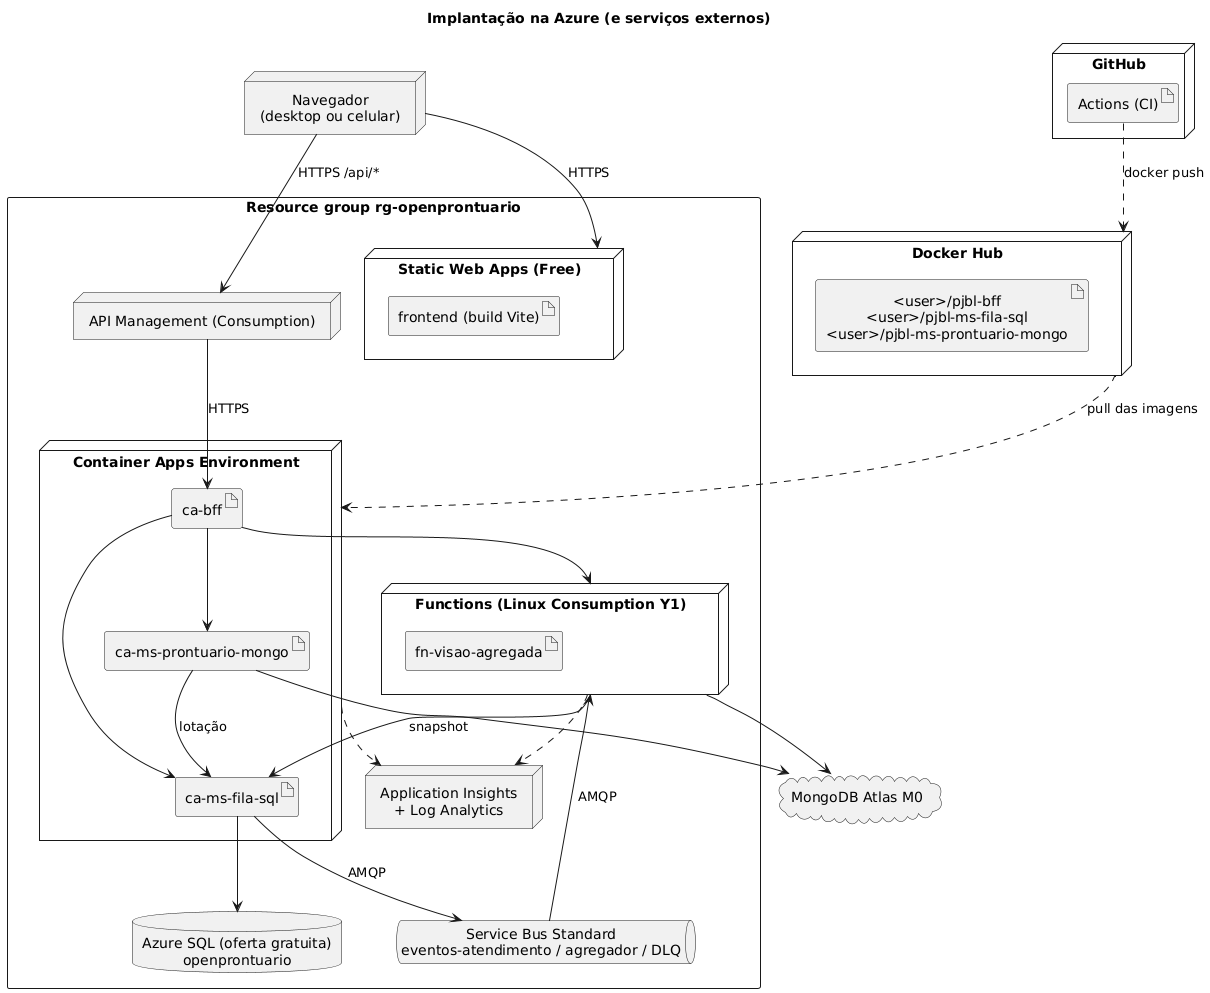
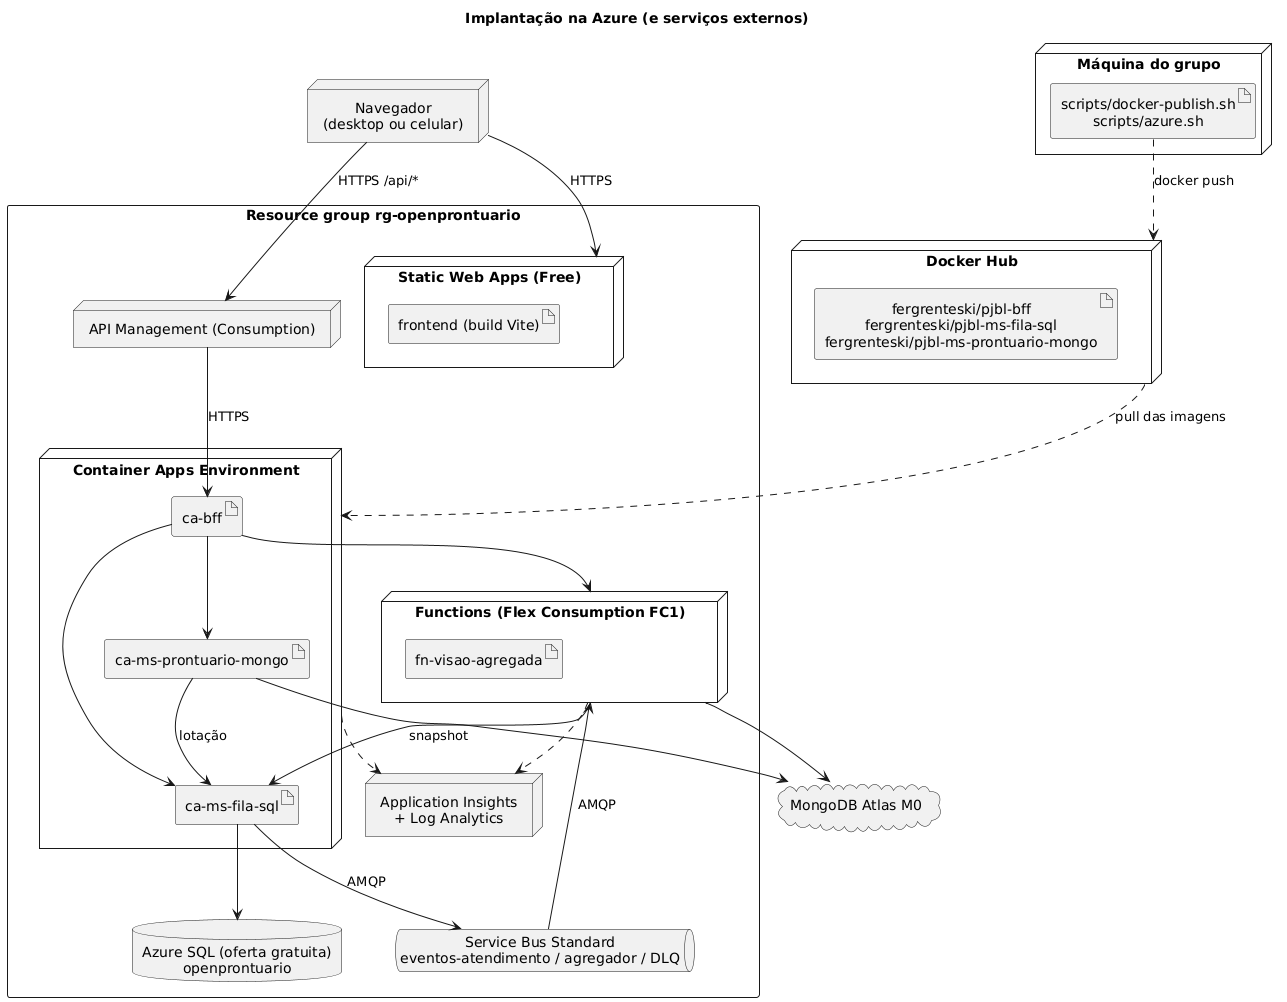
fix(infra): deploy real na Azure for Students
- Function em Flex Consumption (FC1): o Y1 tem cota zero na assinatura
  de estudante e está sendo aposentado; deploy por zip.
- Política do APIM depende das operações (PreconditionFailed por
  escrita concorrente).
- Timeout do BFF em nuvem de 10 s para 45 s, cobrindo a partida a frio.
- azure.sh: lê o .env.azure sem source (a URI do Atlas tem &), registra
  os provedores, publica o frontend num container node:20 (o binário
  do SWA é x86_64) e ganhou o comando acordar.
- arc42 com os links reais da entrega; VERIFICACAO com o E2E em nuvem.

diff --git a/docs/arc42_open_prontuario_pjbl.md b/docs/arc42_open_prontuario_pjbl.md
@@ -24,26 +24,29 @@ Todos os integrantes participam da documentação, da revisão de código e do v
 
 # Links da entrega {.unnumbered}
 
-> Preencha após o deploy (ver `docs/DEPLOY.md`). Os links de nuvem são saídas do `az deployment group create` (`outputs`).
+> Links de nuvem gerados por `./scripts/azure.sh subir` (consulte com `./scripts/azure.sh status`). Tudo escala a zero: o primeiro acesso depois de um tempo parado leva até ~1 min.
 
 | Artefato | Link |
 |---|---|
-| GitHub — Microfrontend | `<PREENCHER>` (https://github.com/fergrenteski/open-prontuario-frontend) |
-| GitHub — BFF | `<PREENCHER>` (https://github.com/fergrenteski/open-prontuario-bff) |
-| GitHub — Microserviço MongoDB | `<PREENCHER>` (https://github.com/fergrenteski/open-prontuario-ms-prontuario-mongo) |
-| GitHub — Microserviço Azure SQL | `<PREENCHER>` (https://github.com/fergrenteski/open-prontuario-ms-fila-sql) |
-| GitHub — Azure Function | `<PREENCHER>` (https://github.com/fergrenteski/open-prontuario-fn-visao-agregada) |
-| GitHub — Plataforma (docs, compose, Bicep) | `<PREENCHER>` (https://github.com/fergrenteski/open-prontuario-platform) |
-| Docker Hub — BFF | `<PREENCHER>` (https://hub.docker.com/r/<usuario>/pjbl-bff) |
-| Docker Hub — MS Fila | `<PREENCHER>` (https://hub.docker.com/r/<usuario>/pjbl-ms-fila-sql) |
-| Docker Hub — MS Prontuário | `<PREENCHER>` (https://hub.docker.com/r/<usuario>/pjbl-ms-prontuario-mongo) |
-| Swagger — BFF | `<PREENCHER>` (output `bffSwaggerUrl`) |
-| Swagger — MS Fila | `<PREENCHER>` (output `msFilaSwaggerUrl`) |
-| Swagger — MS Prontuário | `<PREENCHER>` (output `msProntuarioSwaggerUrl`) |
-| OpenAPI — Function (HTTP Trigger) | `<PREENCHER>` (`docs/contracts/fn-visao-agregada.openapi.yaml` no GitHub) |
-| Eventos (AsyncAPI) | `<PREENCHER>` (`docs/contracts/asyncapi.yaml` no GitHub / AsyncAPI Studio) |
-| Frontend | `<PREENCHER>` (output `frontendUrl`) |
-| API Gateway | `<PREENCHER>` (output `apiGatewayUrl`) |
+| GitHub — Microfrontend | https://github.com/fergrenteski/open-prontuario-frontend |
+| GitHub — BFF | https://github.com/fergrenteski/open-prontuario-bff |
+| GitHub — Microserviço MongoDB | https://github.com/fergrenteski/open-prontuario-ms-prontuario-mongo |
+| GitHub — Microserviço Azure SQL | https://github.com/fergrenteski/open-prontuario-ms-fila-sql |
+| GitHub — Azure Function | https://github.com/fergrenteski/open-prontuario-fn-visao-agregada |
+| GitHub — Plataforma (docs, compose, Bicep) | https://github.com/fergrenteski/open-prontuario-platform |
+| Docker Hub — BFF | https://hub.docker.com/r/fergrenteski/pjbl-bff |
+| Docker Hub — MS Fila | https://hub.docker.com/r/fergrenteski/pjbl-ms-fila-sql |
+| Docker Hub — MS Prontuário | https://hub.docker.com/r/fergrenteski/pjbl-ms-prontuario-mongo |
+| Docker Hub — Function | https://hub.docker.com/r/fergrenteski/pjbl-fn-visao-agregada |
+| Docker Hub — Frontend | https://hub.docker.com/r/fergrenteski/pjbl-frontend |
+| Swagger — BFF | https://ca-bff.gentletree-a28fd1cb.brazilsouth.azurecontainerapps.io/api/docs |
+| Swagger — MS Fila | https://ca-ms-fila-sql.gentletree-a28fd1cb.brazilsouth.azurecontainerapps.io/swagger-ui.html |
+| Swagger — MS Prontuário | https://ca-ms-prontuario-mongo.gentletree-a28fd1cb.brazilsouth.azurecontainerapps.io/swagger-ui.html |
+| OpenAPI — Function (HTTP Trigger) | https://github.com/fergrenteski/open-prontuario-platform/blob/main/docs/contracts/fn-visao-agregada.openapi.yaml |
+| Eventos (AsyncAPI) | https://github.com/fergrenteski/open-prontuario-platform/blob/main/docs/contracts/asyncapi.yaml |
+| Frontend | https://lemon-meadow-08591770f.1.azurestaticapps.net |
+| API Gateway | https://apim-openpront-kuuqj6ka4e67k.azure-api.net/api (exige o header `Ocp-Apim-Subscription-Key`; sem ele, 401) |
+| Azure Function (HTTP Trigger) | https://func-openpront-kuuqj6ka4e67k.azurewebsites.net/api/health |
 | Vídeo no YouTube (não listado) | `<PREENCHER>` |
 
 \newpage
@@ -350,7 +353,7 @@ Uma mensagem que falha 5 vezes (JSON inválido ou MS Fila indisponível) vai par
 | BFF | Azure Container Apps | Consumption, escala 0–3 | `<usuario>/pjbl-bff` |
 | MS Fila | Azure Container Apps | Consumption, escala 0–3 | `<usuario>/pjbl-ms-fila-sql` |
 | MS Prontuário | Azure Container Apps | Consumption, escala 0–3 | `<usuario>/pjbl-ms-prontuario-mongo` |
-| Function | Azure Functions | Linux Consumption (Y1), Java 17 | pacote `fn-visao-agregada` |
+| Function | Azure Functions | Flex Consumption (FC1), Java 17 | pacote `fn-visao-agregada` |
 | Mensageria | Azure Service Bus | Standard (tópicos) | `eventos-atendimento` |
 | Banco relacional | Azure SQL Database | oferta gratuita (serverless, auto-pause) | `openprontuario` |
 | Banco de documentos | MongoDB Atlas | M0 (free) | dbs `prontuario` e `visao` |

diff --git a/docs/VERIFICACAO.md b/docs/VERIFICACAO.md
@@ -61,6 +61,35 @@ Também verificado manualmente:
 - **Degradação graciosa:** com a Function parada, `GET /api/aggregated-data?unidadeId=upa-01` respondeu 200 com `meta.degraded = true` e `falhas = [{fonte: fn-visao-agregada, motivo: indisponivel}]`.
 - **Frontend contra o BFF real** (Vite dev + navegador): login como Carla (atendente), seleção da UPA Boa Vista com as lotações do MS Fila, fila ordenada por prioridade com pacientes a caminho e o selo "Autorizado" vindo do MS Prontuário, indicadores da Function, e "Confirmar chegada" atualizando a fila e os indicadores no polling seguinte.
 
+### `docker compose up --build` completo
+
+Depois de liberar espaço em disco, `make up` construiu as 5 imagens e subiu os 11 containers (todos `healthy` em ~20 s). `make e2e` passou nas **19 verificações**. Logo após a subida, a primeira tentativa recebeu 503 do MS Fila porque o Service Bus Emulator ainda estava criando o tópico; 30 s depois tudo passou.
+
+## GitHub e Docker Hub
+
+- Os 6 repositórios são públicos em `github.com/fergrenteski/open-prontuario-*`, com a tag `v1.0.0`. O CI (GitHub Actions) do primeiro push ficou verde nos 5 repositórios de código.
+- Imagens `linux/amd64` publicadas: `fergrenteski/pjbl-bff:v1`, `pjbl-ms-fila-sql:v1`, `pjbl-ms-prontuario-mongo:v1`, `pjbl-fn-visao-agregada:v1`, `pjbl-frontend:v1`.
+
+## Nuvem (Azure + MongoDB Atlas)
+
+Implantado com `./scripts/azure.sh subir` na assinatura Azure for Students (`brazilsouth`); MongoDB Atlas M0 em São Paulo (AWS `SA_EAST_1`, região Azure indisponível para M0). `./scripts/azure.sh testar` passou nas **19 verificações** contra o API Gateway, com Azure SQL, Service Bus Standard, Function (Flex Consumption) e Atlas reais:
+
+```
+E2E smoke — https://apim-openpront-kuuqj6ka4e67k.azure-api.net/api
+  ✔ 13. /aggregated-data uniu ms-fila-sql(113ms) + ms-prontuario-mongo(86ms) + fn-visao-agregada(19ms)
+  ...
+E2E OK — 19 verificações.
+```
+
+Também verificado no navegador: frontend no Static Web Apps → login como Carla → unidades da lotação → fila da UPA Boa Vista com os indicadores da Function. Todos os links da seção "Links da entrega" do arc42 respondem 200 (o gateway responde 401 sem a subscription key, como esperado).
+
+Problemas encontrados no deploy e corrigidos:
+
+- **Function:** o plano Y1 (Linux Consumption) tem cota zero no Azure for Students; o Bicep passou a usar **Flex Consumption (FC1)** e o deploy passou a ser por zip.
+- **API Management:** a política da API falhava com `PreconditionFailed` por escrita concorrente com as operações; a política agora depende das operações.
+- **Partida a frio:** tudo escala a zero e um serviço Java leva ~30 s para acordar. O timeout do BFF em nuvem subiu para 45 s e o do frontend para 60 s; `./scripts/azure.sh acordar` aquece tudo antes de apresentar.
+- **Static Web Apps:** o CLI baixa um binário .NET x86_64 que não roda em Mac ARM sem Rosetta; o `azure.sh` roda o deploy dentro de um container `node:20`.
+
 ## Ajustes descobertos na integração
 
 - O **Service Bus Emulator** aceita no máximo `DefaultMessageTimeToLive = PT1H` e `DuplicateDetectionHistoryTimeWindow = PT5M`. O `servicebus/Config.json` usa esses limites; o Bicep (produção) mantém 1 dia e 10 minutos, como no arc42.
@@ -69,7 +98,7 @@ Também verificado manualmente:
 
 ## Não verificado
 
-- `docker compose up --build` com as cinco imagens (falta de disco); os Dockerfiles foram validados individualmente.
 - Gatilho da DLQ contra o emulador (coberto por testes unitários).
-- Qualquer coisa em nuvem: deploy do Bicep, Atlas, Azure SQL, APIM, Static Web Apps, Entra ID, Application Insights, CI no GitHub Actions — dependem das credenciais do grupo (`docs/DEPLOY.md`).
+- Modo `entra` (Microsoft Entra ID) em nuvem: a demonstração usa `authMode=dev` com as personas.
+- `./scripts/azure.sh desligar` seguido de `subir` (apagar e recriar tudo) não foi exercitado para não derrubar o ambiente da entrega.
 - Geração do PDF (pandoc não instalado; comando com Docker em `DEPLOY.md`).

diff --git a/docs/DEPLOY.md b/docs/DEPLOY.md
@@ -11,6 +11,10 @@ Tudo em nuvem é ligado, testado e desligado pelo `scripts/azure.sh`:
 ```
 
 ```bash
+./scripts/azure.sh acordar    # tira os serviços da partida a frio: rode antes de apresentar
+```
+
+```bash
 ./scripts/azure.sh testar     # smoke test E2E (19 verificações) contra o API Gateway
 ```
 
@@ -26,7 +30,9 @@ Tudo em nuvem é ligado, testado e desligado pelo `scripts/azure.sh`:
 | Semanas sem usar | `./scripts/azure.sh desligar` | zero |
 | Precisa de novo | `./scripts/azure.sh subir` | ~20 min para ficar no ar |
 
-Parado, quase nada cobra: Container Apps e Functions escalam a zero, o API Management Consumption cobra por chamada, o Azure SQL usa a oferta gratuita com auto-pause e o Static Web Apps é Free. Por isso não existe "pausar": o único custo fixo é o Service Bus, que não pausa.
+Tudo escala a zero, então o primeiro acesso depois de um tempo parado leva até ~1 min (a tela mostra "Buscando…"). Antes de apresentar ou gravar o vídeo, rode `acordar`.
+
+Parado, quase nada cobra: Container Apps e Functions (Flex Consumption) escalam a zero, o API Management Consumption cobra por chamada, o Azure SQL usa a oferta gratuita com auto-pause e o Static Web Apps é Free. Por isso não existe "pausar": o único custo fixo é o Service Bus, que não pausa.
 
 Ao desligar e subir de novo:
 - as URLs do API Gateway e da Function **continuam iguais** (o nome vem do resource group);
@@ -65,6 +71,8 @@ cp .env.azure.example .env.azure
 Preencha `DOCKERHUB_USER`, `MONGODB_URI` e `APIM_EMAIL`. As senhas e chaves internas são geradas na primeira execução e guardadas no próprio `.env.azure`, que fica fora do git.
 
 ### 4. Subir
+
+Pré-requisitos: Azure CLI, Docker (o deploy do frontend roda num container), JDK 17 e Node 20+.
 
 ```bash
 az login
